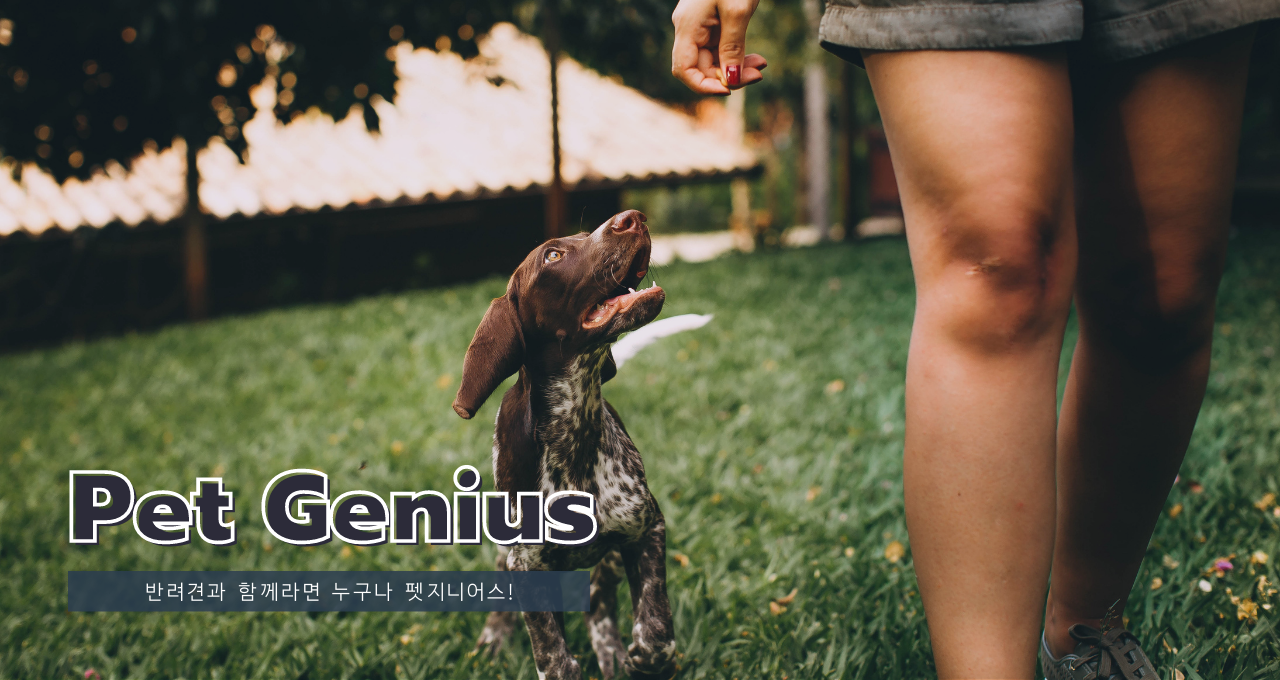
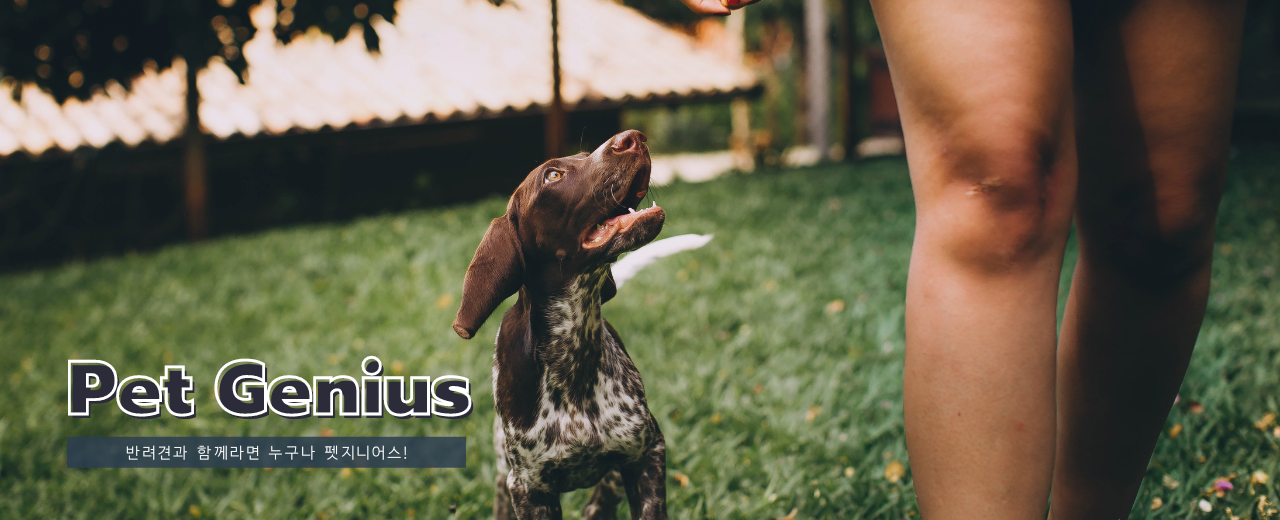
배너 크기 조정

diff --git a/templates/index.html b/templates/index.html
@@ -144,12 +144,12 @@
         }
         .banner_btn {
             position: absolute;
-            top: 83%;
+            top: 85%;
             opacity: 0.8;
         }
         .carousel-control-prev, .carousel-control-next {
             height: 150px;
-            margin-top: 20%;
+            margin-top: 17%;
         }
     </style>
 </head>
@@ -223,7 +223,7 @@
         <div class="row justify-content-center">
             <div class="form-group col-md-6 col-lg-4 mb-5">
                 <select id="category" name="category" title="구분" onchange="" class="form-select">
-                                <option value="">:: 구분 ::</option>
+                                <option value="ALL">:: 구분 ::</option>
                                 <option value="도와 주세요">
                                     도와 주세요
                                 </option>
